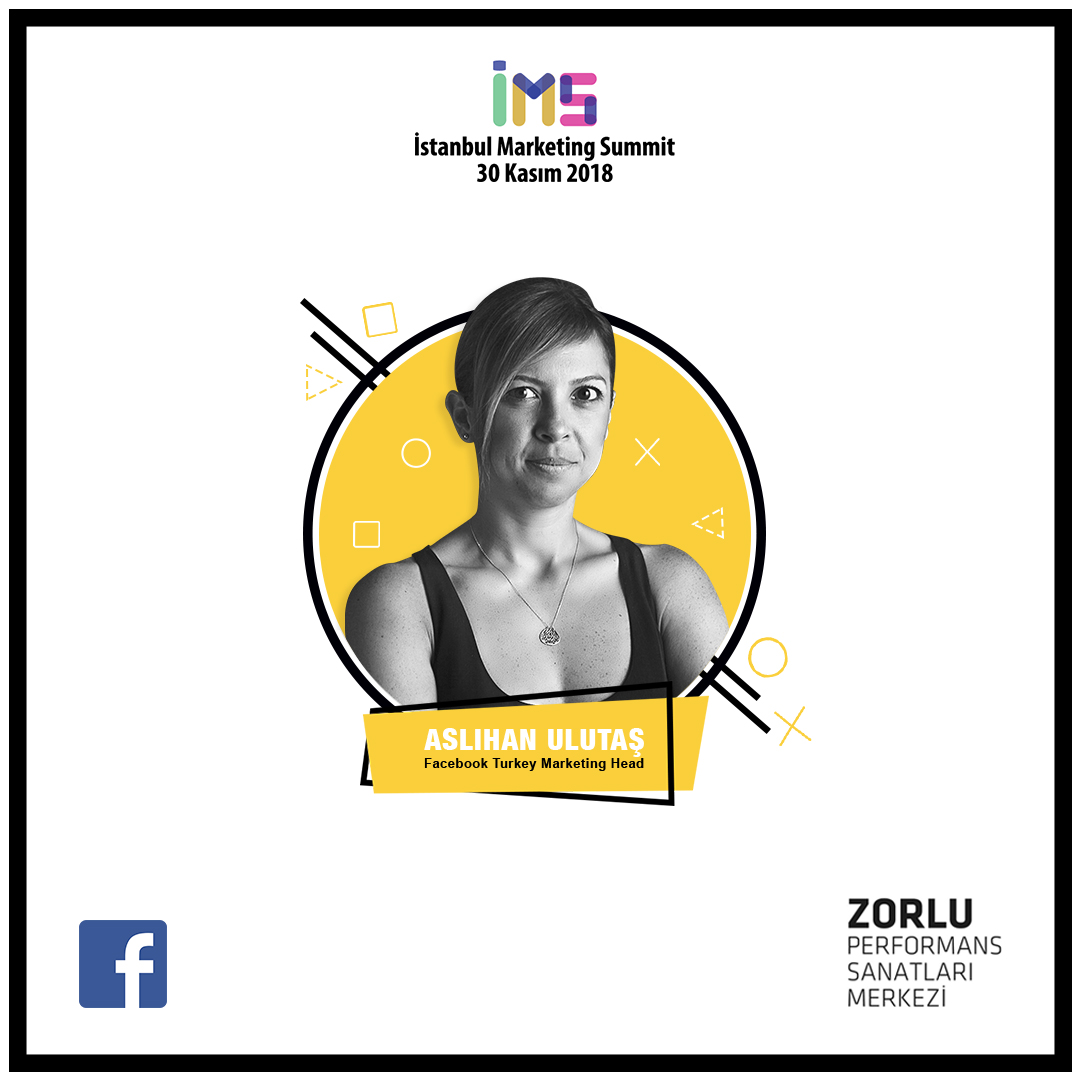
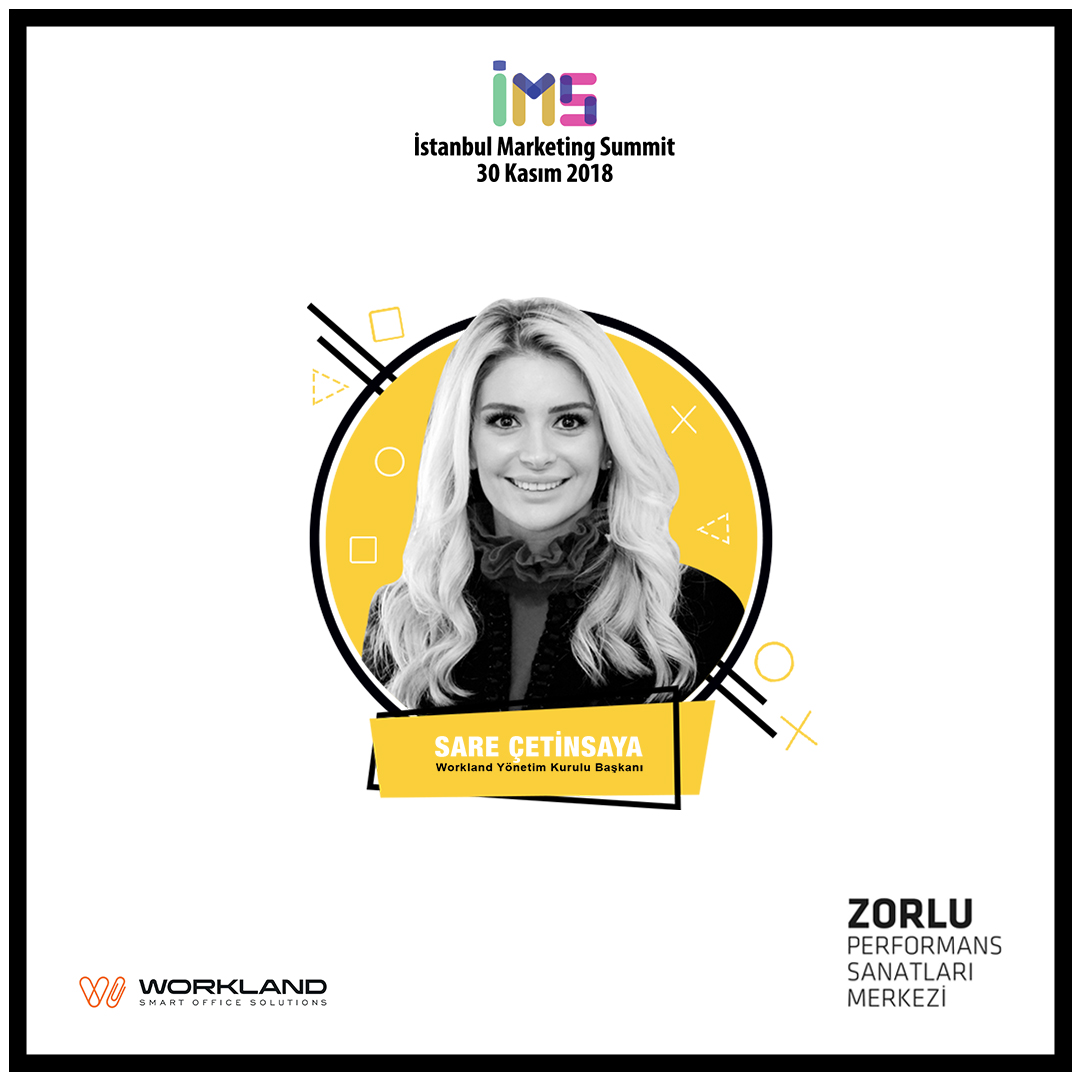
deleted aslıhan

Changed region(s): [[0.275, 0.2444, 0.7639, 0.7639], [0.0611, 0.825, 0.3056, 0.9472]]

diff --git a/index.html b/index.html
@@ -224,25 +224,6 @@
                         </div>
                         <div class="col-xl-4 col-lg-3 col-md-4 col-sm-6 col-xs-6">
                             <div class="speaker-layout2">
-                                <img src="img/speaker/3.jpg" alt="speaker" class="img-fluid">
-                                <div class="item-title">
-                                    <h3 class="title-medium size-md color-light hover-yellow">
-                                        <a href="https://www.linkedin.com/in/aslihanulutas/">Aslıhan Ulutaş</a>
-                                    </h3>
-                                </div>
-                                <div class="item-social">
-                                    <ul>
-                                        <li>
-                                            <a href="https://www.linkedin.com/in/aslihanulutas/" title="linkedin">
-                                                <i class="fa fa-linkedin" aria-hidden="true"></i>
-                                            </a>
-                                        </li>
-                                    </ul>
-                                </div>
-                            </div>
-                        </div>
-                        <div class="col-xl-4 col-lg-3 col-md-4 col-sm-6 col-xs-6">
-                            <div class="speaker-layout2">
                                  <img src="img/speaker/12.jpg" alt="speaker" class="img-fluid">
                                 <div class="item-title">
                                     <h3 class="title-medium size-md color-light hover-yellow">
@@ -310,6 +291,25 @@
                                     <ul>
                                         <li>
                                             <a href="https://www.linkedin.com/in/samet-ensar-sari-581a339/" title="linkedin">
+                                                <i class="fa fa-linkedin" aria-hidden="true"></i>
+                                            </a>
+                                        </li>
+                                    </ul>
+                                </div>
+                            </div>
+                        </div>
+                        <div class="col-xl-4 col-lg-3 col-md-4 col-sm-6 col-xs-6">
+                            <div class="speaker-layout2">
+                                <img src="img/speaker/3.jpg" alt="speaker" class="img-fluid">
+                                <div class="item-title">
+                                    <h3 class="title-medium size-md color-light hover-yellow">
+                                        <a href="https://www.linkedin.com/in/sare-cetinsaya-b4b99035/">Sare Çetinsaya</a>
+                                    </h3>
+                                </div>
+                                <div class="item-social">
+                                    <ul>
+                                        <li>
+                                            <a href="https://www.linkedin.com/in/sare-cetinsaya-b4b99035/" title="linkedin">
                                                 <i class="fa fa-linkedin" aria-hidden="true"></i>
                                             </a>
                                         </li>
